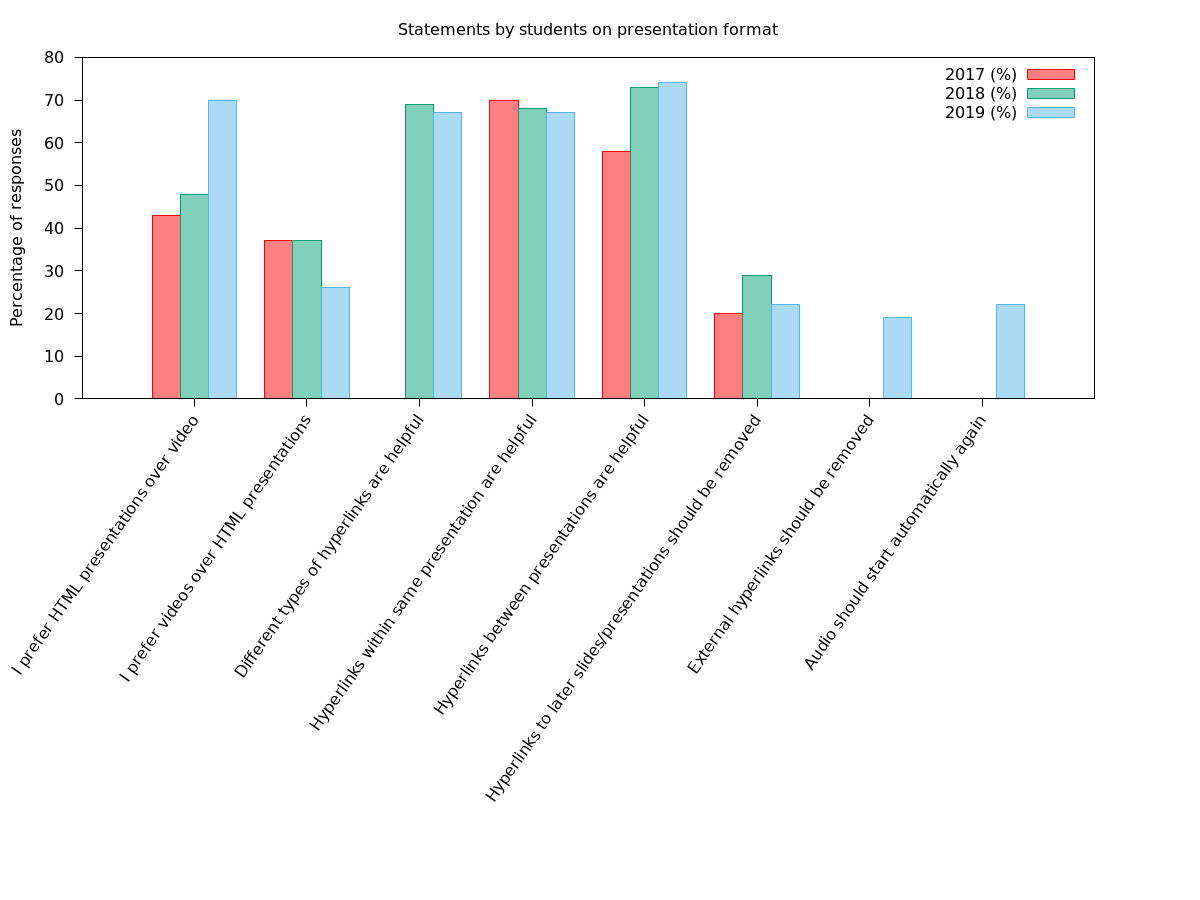
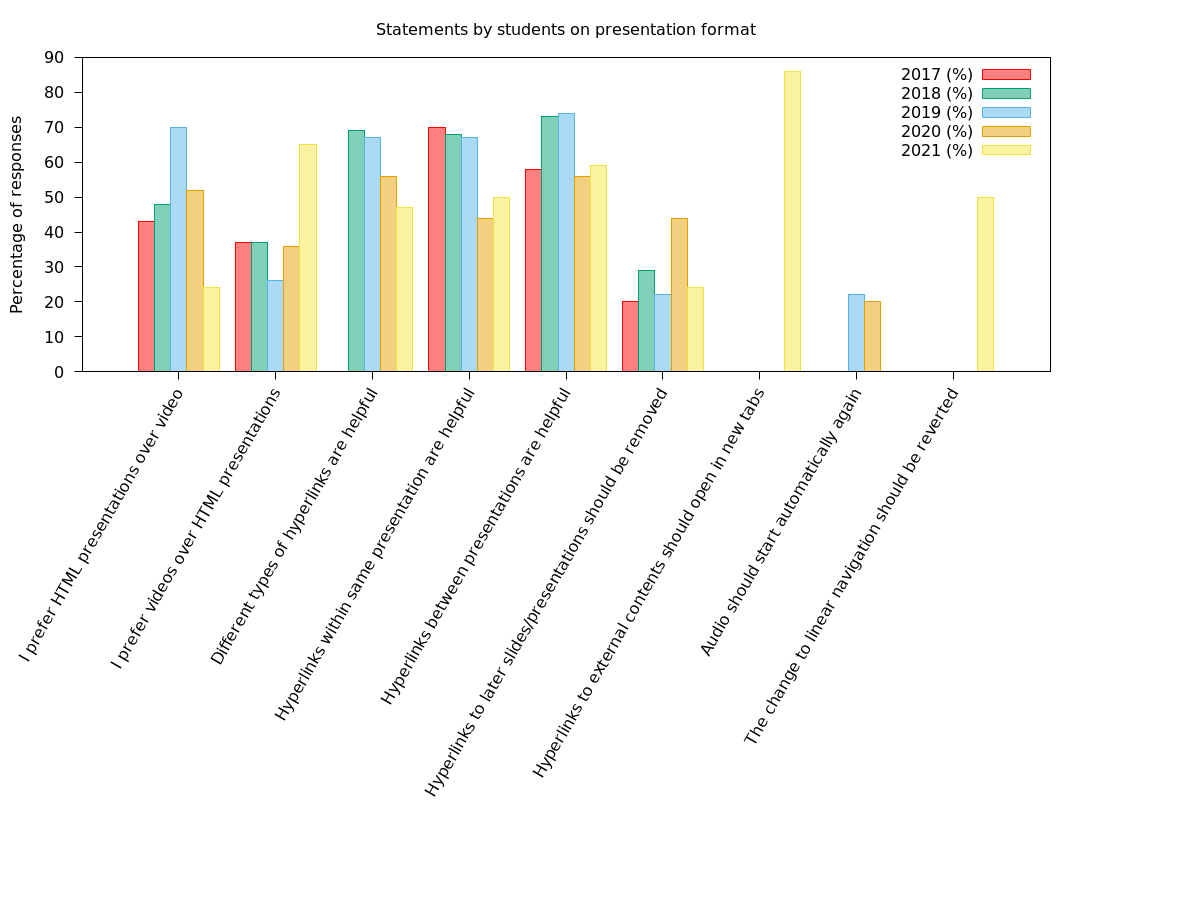
Update features and evaluation figure for 2021

diff --git a/README.md b/README.md
@@ -1,5 +1,5 @@
 <!--- Local IspellDict: en -->
-<!--- SPDX-FileCopyrightText: 2017-2020 Jens Lechtenbörger -->
+<!--- SPDX-FileCopyrightText: 2017-2021 Jens Lechtenbörger -->
 <!--- SPDX-License-Identifier: GPL-3.0-or-later -->
 
 [![DOI](https://jose.theoj.org/papers/10.21105/jose.00050/status.svg)](https://doi.org/10.21105/jose.00050)
@@ -326,15 +326,17 @@ reasons for that format (see
 or [that paper in German](https://doi.org/10.21240/mpaed/34/2019.03.02.X)),
 and the following figure contains some evaluation results for a
 [course on Operating Systems](https://gitlab.com/oer/OS)
-indicating that students generally agree.
+indicating that students do not disagree in general, although students
+in 2021 stated a strong preference for videos.  I plan to repeat such
+evaluations in upcoming years…
 
 I added different types of hyperlinks in 2018 and extended them in
-2019; thus there is no data for 2017.  Also, I added the final two
-questions in 2019: First, some students ask to remove links every
-year; apparently, the majority disagrees.  (For the minority, I plan
-to implement customizable CSS styles, but did not manage to do so yet.
-Help would be very welcome!)  Second, based on student feedback, I
-disabled auto-play for audio in 2019; only a minority asked to revert
-this change.
+2019 and 2021; thus there is no data for 2017.  Based on student
+feedback, I disabled auto-play for audio in 2019; only a minority
+(nobody in 2021) asked to revert this change, which can be performed
+with URL parameter ~audio-autoplay~).  Since August 2021, hyperlinks
+to external contents open in new tabs, and I switched presentations to
+use the ~linear~ navigation mode of reveal.js (unless URL parameter
+~default-navigation~ is used).
 
 ![Evaluation results for emacs-reveal](evaluation.png "Evaluation results for emacs-reveal")
